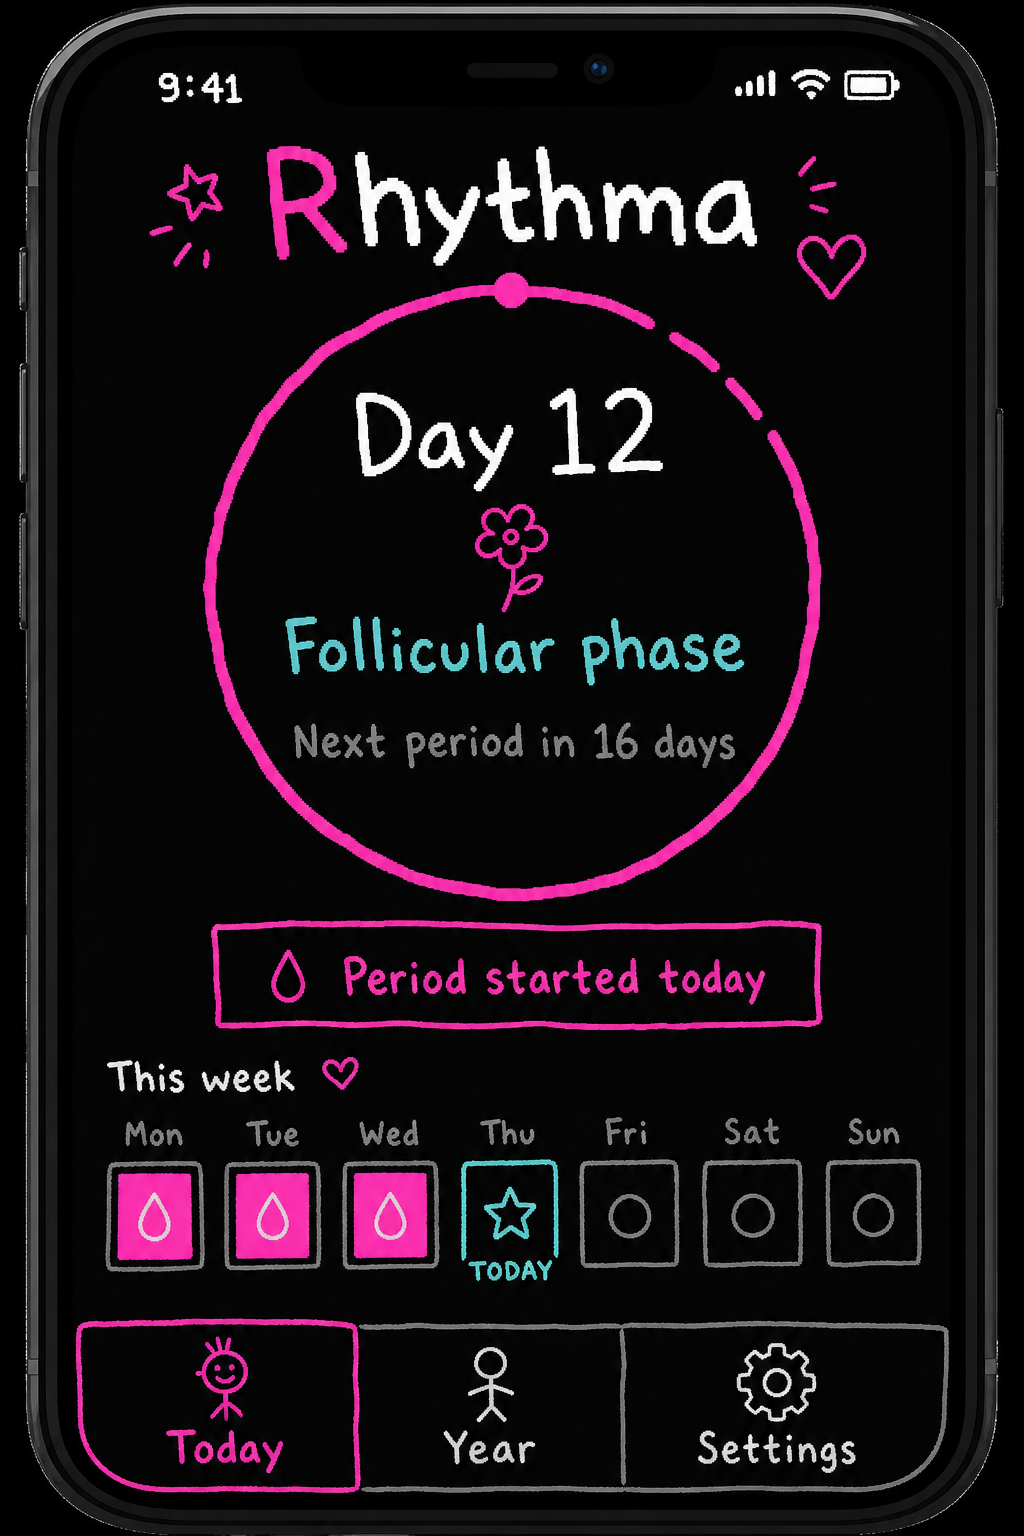
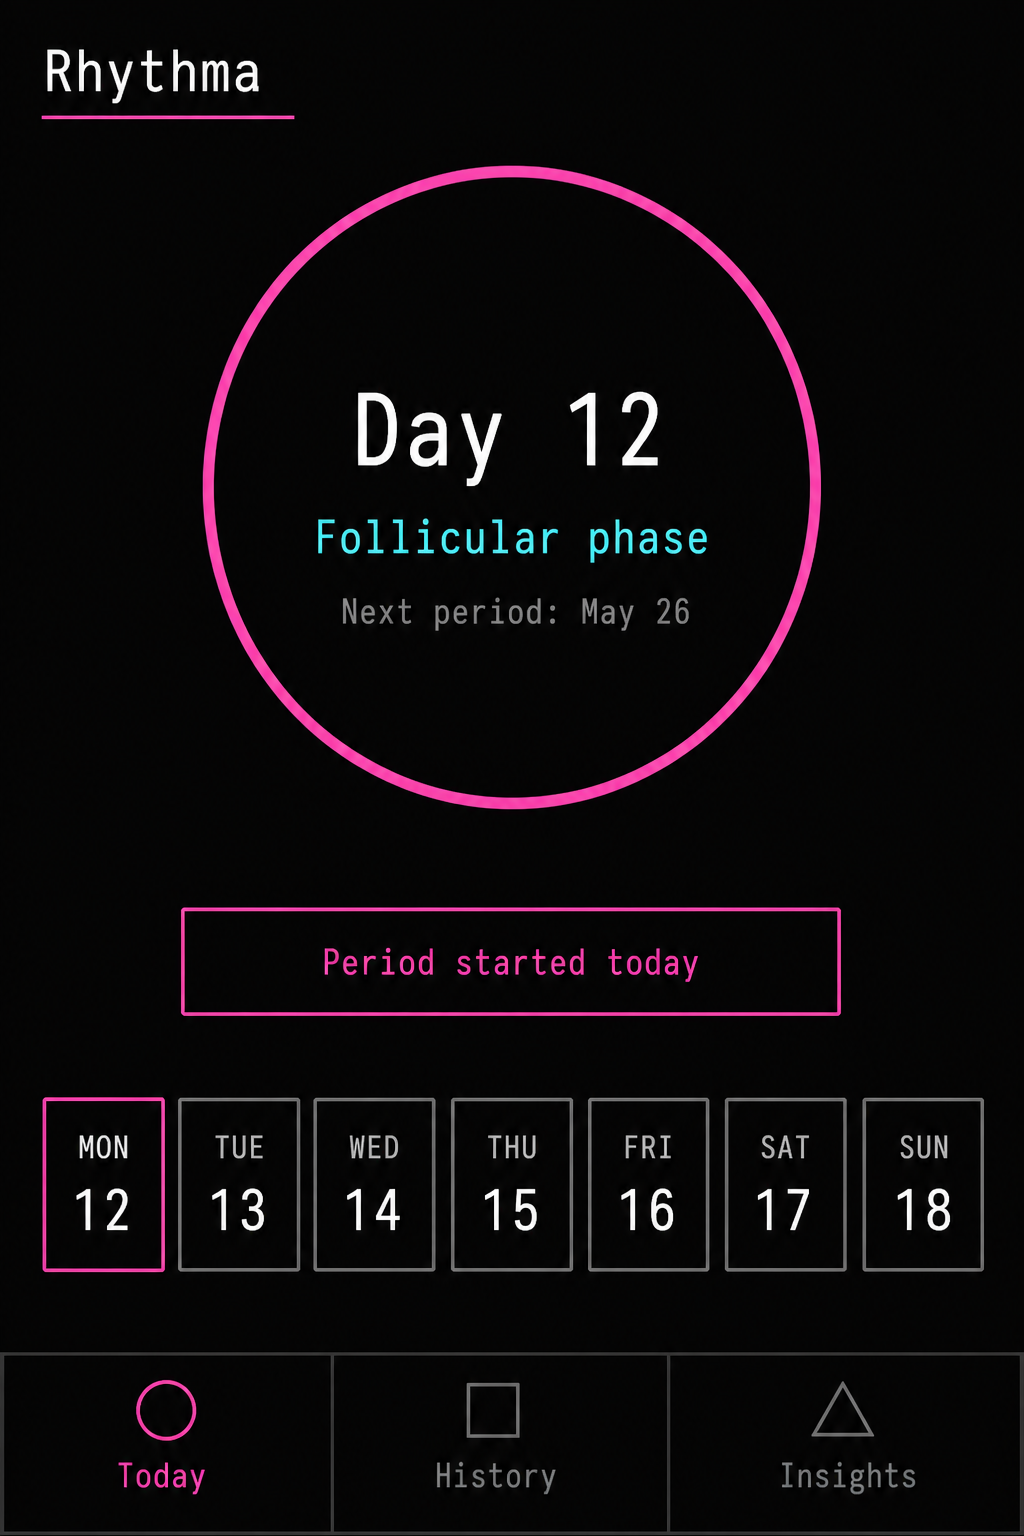
Tone down Paint-style mockups: adult, not teenage
Drop cute doodles (hearts, smileys, stickers). Prefer restrained
Paint Text-tool typography and geometric icons; update master prompt.

diff --git a/docs/design/paint-style/PROMPT.md b/docs/design/paint-style/PROMPT.md
@@ -1,6 +1,7 @@
 # Rhythma — Paint-style design prompt
 
 Current dark neon brand palette + classic old Microsoft Paint delivery.
+Tone: **restrained / adult / raw** — not teenage, not cute-diary.
 
 ## Palette (do not drift)
 
@@ -23,8 +24,12 @@ Mood stays **dark neon Rhythma** — only the *drawing method* becomes Paint.
 ```
 Mobile UI for cycle tracker app "Rhythma".
 Aesthetic: classic old Microsoft Paint (Windows 95/XP) — drawn with a mouse.
-Uneven 1–2px outlines, wobbly circles, naive stick icons, aliased/jagged edges,
-chunky imperfect handwriting, cute raw playful doodles.
+Thin uneven 1–2px outlines, slightly imperfect geometry, aliased/jagged edges,
+flat fills, geometric icons only (circle, grid, gear).
+Typography: plain Paint Text-tool / system-like sans — slightly uneven, NOT cursive,
+NOT brush lettering, NOT bubbly handwriting, NOT diary script.
+Tone: restrained, adult, calm, raw, dry — NOT teenage, NOT cute, NOT playful doodle.
+NO hearts, smileys, stars, flowers, stickers, stick figures, sparkles.
 NO glossy UI, NO realistic shadows, NO glassmorphism, NO luxury minimalism,
 NO gradients on controls, NO photoreal imagery.
 
@@ -36,9 +41,8 @@ Palette ONLY:
 - main accent neon magenta/pink #FF10F0
 - secondary accent cyan/teal #5ECAD6
 
-Brand word "Rhythma" must read as a hero-level hand-painted signal.
-Feel: playful, raw, hand-drawn, imperfect, cute, dark UI with bright pink accents.
-iPhone portrait mockup.
+Brand word "Rhythma" as a clear hero signal (flat paint letters, not cute).
+iPhone portrait mockup. Tabs: Today · Year · Settings.
 ```
 
 ## Master prompt (UA)
@@ -46,10 +50,13 @@ iPhone portrait mockup.
 ```
 Дизайн мобільного UI для трекера циклу "Rhythma".
 Стиль: старий Microsoft Paint (Win 95/XP) — ніби намальовано мишкою.
-Нерівні контури 1–2px, криві кола, наївні іконки, aliased краї,
-нерівний hand-drawn текст, милі сирі doodles.
-Без glossy UI, без реалістичних тіней, без glassmorphism, без luxury minimalism,
-без градієнтів на кнопках, без фотореалізму.
+Тонкі нерівні контури 1–2px, трохи недосконала геометрія, aliased краї,
+плоскі заливки, лише геометричні іконки (коло, сітка, шестерня).
+Типографіка: простий Paint Text tool / system-like sans — трохи нерівний,
+НЕ курсив, НЕ brush lettering, НЕ «милий» handwriting, НЕ щоденниковий скрипт.
+Тон: стриманий, дорослий, спокійний, raw — НЕ підлітковий, НЕ cute, НЕ doodle-journal.
+Без сердець, смайликів, зірочок, квіточок, стікерів, stick figures, блискіток.
+Без glossy UI, тіней, glassmorphism, luxury minimalism, градієнтів на кнопках.
 
 Палітра лише:
 - фон #0A0A0A
@@ -59,41 +66,43 @@ iPhone portrait mockup.
 - акцент neon pink/magenta #FF10F0
 - додатковий акцент cyan/teal #5ECAD6
 
-Назва "Rhythma" — hero-рівень, hand-painted.
-Настрій: playful, raw, hand-drawn, imperfect, cute, dark + bright pink.
-iPhone portrait.
+"Rhythma" — чіткий hero-сигнал (плоскі paint-літери).
+iPhone portrait. Таби: Today · Year · Settings.
 ```
 
 ## Screen add-ons
 
 ### Today
-Add: big wobbly pink cycle circle “Day N”, phase in cyan, gray “Next period in…”,
-pink outline button “Period started today”, 7 uneven day squares (pink = period, cyan outline = today),
-bottom tabs **Today / Year / Settings** (match product: 3 tabs).
+Big imperfect pink cycle ring “Day N”, phase in cyan, gray “Next period in…”,
+pink outline button “Period started today” (text only), 7 plain day squares
+(pink fill = period, cyan outline = today), tabs **Today / Year / Settings**.
 
 ### Year
-Add: hand-drawn year header with pink arrows, 12 crude month grids,
-pink blobs = period, cyan dots = ovulation, gray empty = forecast, simple legend.
+Plain year header with pink chevrons, 12 crude month grids,
+pink cells = period, cyan dots = ovulation, gray empty = forecast, minimal legend.
 
 ### Settings
-Add: wobbly rows + crude toggles (Theme, Calendar sync, Show ovulation),
-language EN/UK, pink outline “Rhythma Plus — Coming soon”, gray privacy scribble.
+Wobbly rows + crude rectangular toggles (Theme, Calendar sync, Show ovulation),
+language EN/UK, pink outline “Rhythma Plus — Coming soon” (no decoration),
+short gray privacy line.
 
 ### Splash
-Add: optional Paint window chrome; huge pink “Rhythma”; one line “Your cycle, doodled.”;
-one cyan CTA; tiny gray “private · on device”. No stats, no cards, no badges.
+Optional Paint window chrome; large flat pink “Rhythma”; one line
+“Plan around your rhythm.”; one cyan outline CTA “Open”;
+tiny gray “private · on device”. Geometric ring only. No stickers.
 
 ### Energy curve (Plus)
-Add: wobbly pink solid + cyan dashed hormone lines, High/Low axis, phase labels along X,
-white “Today” marker, naive legend.
+Wobbly pink solid + cyan dashed lines, High/Low axis, phase labels along X,
+white “Today” marker, text-only legend.
 
 ## Negative prompt
 
 ```
-modern iOS glossy UI, skeuomorphic luxury, soft drop shadows, blur, glassmorphism,
-perfect geometry, Inter/Roboto, purple-indigo gradient theme, cream paper,
-newspaper layout, photorealistic icons, 3D, neon glow bloom overload,
-crowded dashboard, floating sticker badges, inset hero cards
+teenage aesthetic, cute diary, bubbly handwriting, cursive script, brush lettering,
+hearts, smileys, stars, flowers, stickers, stick figures, sparkles, doodle journal,
+modern iOS glossy UI, soft drop shadows, blur, glassmorphism, luxury minimalism,
+perfect geometry, Inter/Roboto, purple-indigo gradient, cream paper, newspaper layout,
+photorealistic icons, 3D, neon glow bloom overload, crowded dashboard, floating badges
 ```
 
 ## Mockups in this folder
@@ -106,4 +115,4 @@ crowded dashboard, floating sticker badges, inset hero cards
 | `rhythma-paint-settings.png` | Settings |
 | `rhythma-paint-energy.png` | Energy curve (Plus) |
 
-Note: some generators invent extra tabs — product navigation is **Today · Year · Settings** only.
+Product navigation is **Today · Year · Settings** only.
